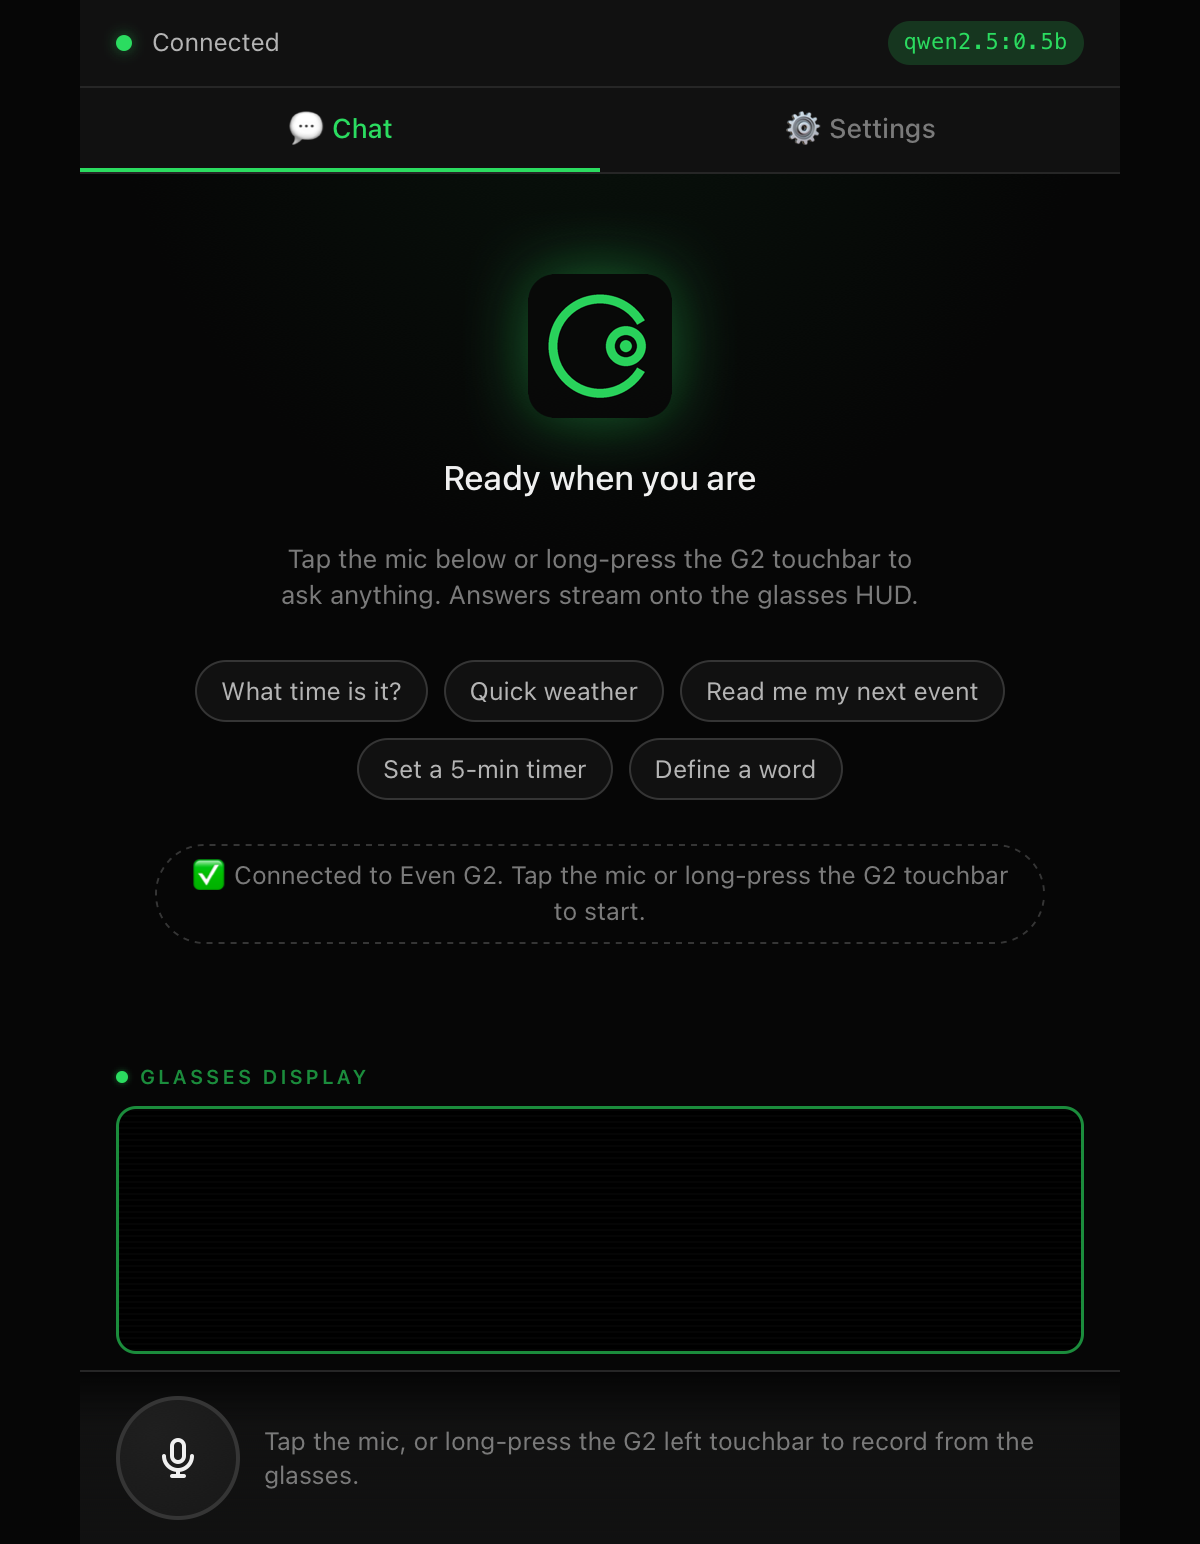
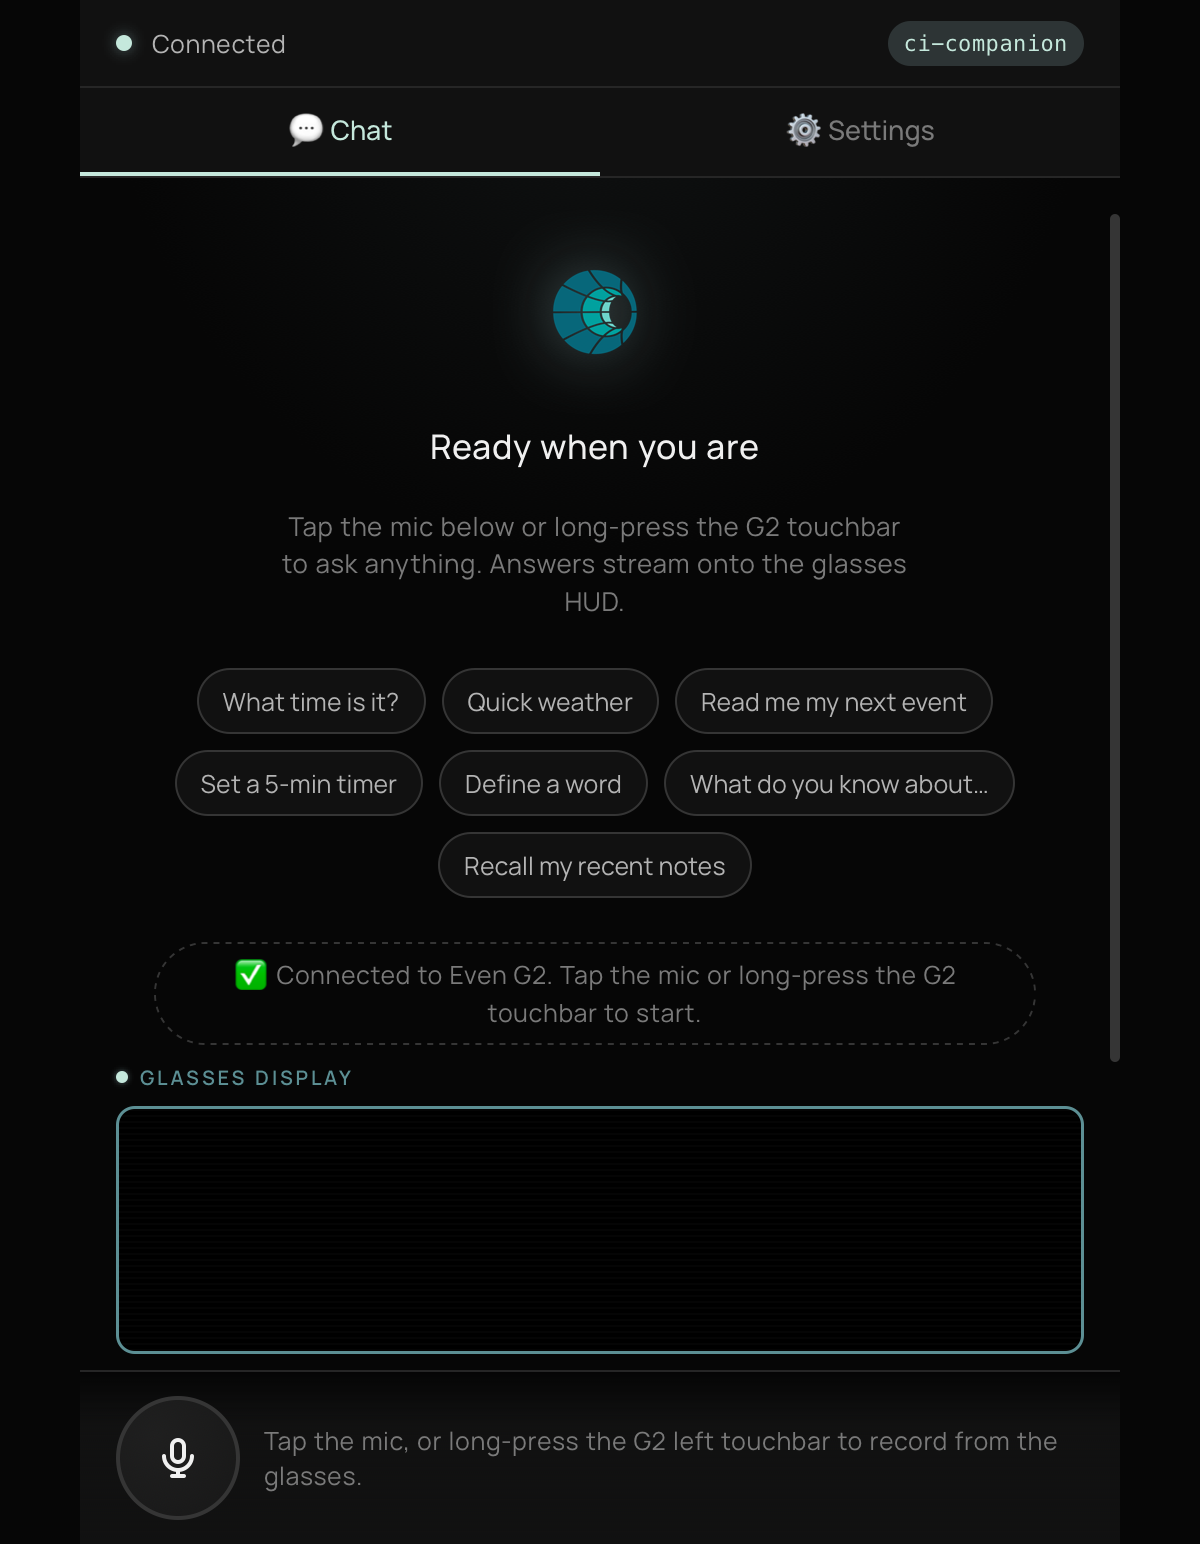
release: 0.5.1 — Responses-API fallback fix, refreshed store screenshots (#41)
* app.json 0.5.0 -> 0.5.1 (the #39 fix needs to ship as a new portal version).
* Recaptured all store-listing screenshots on the current sage brand from a
  built app via the simulator automation API, replacing the set that predated
  the canon migration. 05/06 stream a fixed answer from a deterministic
  OpenAI-compatible mock so they are reproducible. Renamed
  05-hud-stream-ollama -> 05-hud-stream (no longer an Ollama capture) and
  dropped 07-beta1-settings, which showed a private Tailscale address in what
  becomes a public listing.
* PUBLISHING.md: remove the stale-brand alert, document the recapture recipe,
  update versions/test count, correct the claim that the simulator webview
  cannot reach localhost (it can, verified on simulator 0.7.3).
* docs/store-listing.md + CHANGELOG + ROADMAP updated to match.

diff --git a/PUBLISHING.md b/PUBLISHING.md
@@ -18,16 +18,16 @@ npm run pack:ehpk       # builds + produces ci-companion.ehpk
 
 ## Pre-flight checklist
 
-- [ ] `npm test` passes (currently 172 tests)
+- [ ] `npm test` passes (currently 179 tests)
 - [ ] `npm run typecheck` clean
 - [ ] `npm run build` produces `dist/` with `index.html`, JS, CSS
-- [ ] `app.json` version bumped (semver) — currently `0.5.0`
+- [ ] `app.json` version bumped (semver) — currently `0.5.1`
 - [ ] Backend URL field in Settings defaults to a sensible value (today: `http://localhost:8080`)
 - [ ] `permissions.network.whitelist` is `["*"]` so users can point at their own hub / Ollama / OpenAI URLs **and reach CI-Portal for OIDC sign-in**
 - [ ] "Sign in with Companion Intelligence" (CI-Portal OIDC) reaches the configured issuer; signed-out API-key mode still works
 - [ ] CI-Hub quick-connect fills a valid Ollama/Hermes/OpenClaw backend from a Hub base URL
 - [ ] Manually smoke-tested in the Even Hub simulator against at least one live backend (recommend Ollama)
-- [ ] Store-listing screenshots recaptured on the current brand (see the stale-brand warning under "Screenshots already captured" below) — not yet done
+- [x] Store-listing screenshots recaptured on the current brand (0.5.1 set — see "Screenshots" below)
 
 ---
 
@@ -40,7 +40,7 @@ The portal validates `app.json` against a fixed schema. The current file is:
   "package_id": "com.companionintelligence.ciglasses",
   "edition": "202601",
   "name": "CI Companion",
-  "version": "0.5.0",
+  "version": "0.5.1",
   "min_app_version": "2.2.10",
   "min_sdk_version": "0.0.16",
   "entrypoint": "index.html",
@@ -174,28 +174,18 @@ Use this as the starting point — the portal accepts plain text + images.
 - `icon-512.png`, `icon-192.png`, `icon-128.png`, `icon-64.png` — derived sizes
 - `icon-512.png` is also bundled inside the `.ehpk` at `dist/icon.png`
 
-**Screenshots already captured** (in `ci-glasses-app/assets/screenshots/`):
-
-> ⚠ **Stale brand alert.** These seven screenshots predate the CI-Common
-> canon 1.0 migration (`d4b7d2a`, `9244b1a`) — they show the app's original
-> bright-green accent, not the current sage `--primary` (`#c5e8dc`) used
-> everywhere else today (compare against `docs/ui/glasses-chat-dark.png` /
-> `glasses-settings-dark.png`, which *are* current). Submitting the store
-> listing with this set would show a UI that doesn't match what installs.
-> Recapture all seven from a current build before the next portal upload —
-> see `docs/dev-setup.md` for the simulator workflow. Nothing in this
-> session could do it (no simulator/device access here), so it's flagged
-> here rather than silently left stale.
+**Screenshots** (in `ci-glasses-app/assets/screenshots/`) — recaptured 2026-09-28 from the 0.5.1 build (`vite build`, served with `vite preview`) on the current sage brand, replacing the earlier set that predated the canon migration. `05`/`06` stream a fixed, accurate answer from a small deterministic OpenAI-compatible mock (word by word, exactly like a real backend) so they are reproducible; everything else is the app as-is. The old `07-beta1-settings.png` is gone on purpose — it showed a private Tailscale address.
 
 | File | What it shows | Source |
 |---|---|---|
-| `01-empty-quick-actions.png` | Empty Chat tab — icon mark, "Ready when you are" hero, 5 quick-action chips, system pill, GLASSES DISPLAY pane, polished SVG mic button | simulator webview |
+| `01-empty-quick-actions.png` | Empty Chat tab — CI mark, "Ready when you are" hero, quick-action chips, "Connected to Even G2" pill, GLASSES DISPLAY pane, mic dock | simulator webview |
 | `02-hud-ready.png` | G2 HUD showing "CI Companion ready" startup status | simulator glasses |
-| `03-settings.png` | Settings tab with the **Backend Kind card grid** (Local LLM active), card hints visible | simulator webview |
-| `04-hud-prompt.png` | Permission-prompt card on the HUD — tool name, summary, "tap: Approve  2x: Deny" footer | simulator glasses |
-| `05-hud-stream-ollama.png` | Real `qwen2.5:0.5b` answer paginated on the HUD with "[1/2]" indicator, streamed through beta-1 over Tailscale | simulator glasses |
-| `06-chat-with-response.png` | Full polished webview mid-stream: connected pill, model badge, user bubble (gradient green), assistant bubble (dark surface), live GLASSES DISPLAY preview with scan-line overlay | simulator webview |
-| `07-beta1-settings.png` | Settings showing Backend URL `http://100.124.211.75:8787` (beta-1 via Tailscale) — proves the deploy chain | simulator webview |
+| `03-settings.png` | Settings tab — Account ("Sign in with Companion Intelligence") and CI-Hub quick-connect (Assistant / Ollama / Hermes / OpenClaw / Memory) | simulator webview |
+| `04-hud-prompt.png` | Permission-prompt card on the HUD — tool name, summary, tap/double-tap footer | simulator glasses |
+| `05-hud-stream.png` | A streamed answer paginated on the HUD | simulator glasses |
+| `06-chat-with-response.png` | Full webview after a streamed answer: user bubble, assistant bubble, live GLASSES DISPLAY preview | simulator webview |
+
+To recapture, run the simulator against a built app (`npm run build && npm run preview -- --port 5173`) with `--automation-port 9898` and fetch `/api/screenshot/{glasses,webview}` (one fresh simulator launch per shot; the webview snapshot only works while the window is frontmost). Sizes are 1200×1544 (webview) and 576×288 (glasses).
 
 **Optional extras** (capture only if you want extra polish):
 - agent-hub terminal output (for the developer story)
@@ -228,7 +218,7 @@ curl -o glasses.png http://localhost:9898/api/screenshot/glasses
 curl -o webview.png http://localhost:9898/api/screenshot/webview
 ```
 
-**Note on networking**: the Tauri webview inside the simulator can reach a LAN IP (`192.168.x.y:8787`) but not `localhost` of the host. Use your machine's LAN IP when pointing at the hub from the simulator. The agent-hub now sends permissive CORS headers so the webview's preflight passes.
+**Note on networking**: with simulator 0.7.3 the Tauri webview reaches the host's `localhost` fine (verified streaming through `http://localhost:8787`), so `baseUrl=http://localhost:8787` works. If a future simulator build blocks loopback, use your machine's LAN IP (`192.168.x.y:8787`) instead — the hub binds loopback only by default, so that also needs `HUB_BIND=0.0.0.0` + `HUB_TOKEN`. The agent-hub sends permissive CORS headers so the webview's preflight passes.
 
 **Support URL:** <https://github.com/companionintelligence/CI-Even-Realities>
 

diff --git a/docs/store-listing.md b/docs/store-listing.md
@@ -12,7 +12,7 @@ release. See [`../PUBLISHING.md`](../PUBLISHING.md) for the upload workflow.
 |---|---|
 | **App name** | CI Companion |
 | **Package id** | `com.companionintelligence.ciglasses` |
-| **Version** | `0.4.0` |
+| **Version** | `0.5.1` |
 | **Categories** | Productivity · Developer Tools |
 | **Supported languages** | English (`en`) |
 | **Support URL** | <https://github.com/companionintelligence/CI-Even-Realities> |
@@ -60,22 +60,25 @@ release. See [`../PUBLISHING.md`](../PUBLISHING.md) for the upload workflow.
 
 ## Screenshots (`ci-glasses-app/assets/screenshots/`)
 
+Recaptured for 0.5.1 on the current sage brand (see [`../PUBLISHING.md`](../PUBLISHING.md#how-the-screenshots-were-captured) for how).
+
 | File | What it shows |
 |---|---|
 | `01-empty-quick-actions.png` | Empty Chat tab — hero, quick-action chips, mic button |
 | `02-hud-ready.png` | G2 HUD "CI Companion ready" |
-| `03-settings.png` | Settings — Backend Kind card grid |
+| `03-settings.png` | Settings — Account sign-in and CI-Hub quick-connect |
 | `04-hud-prompt.png` | Permission-prompt card on the HUD |
-| `05-hud-stream-ollama.png` | Live streamed answer paginated on the HUD |
-| `06-chat-with-response.png` | Full webview mid-stream with glasses preview |
-| `07-beta1-settings.png` | Settings pointed at a Tailscale hub |
+| `05-hud-stream.png` | Streamed answer paginated on the HUD |
+| `06-chat-with-response.png` | Full webview after a streamed answer, with glasses preview |
 
-> **To refresh for 0.4.0:** capture the new **Account** section (signed-out
-> "Sign in with Companion Intelligence" + signed-in identity) and the **CI-Hub**
-> quick-connect. See the demo bootstraps (`?screen=settings`) in
-> [`../PUBLISHING.md`](../PUBLISHING.md).
+## Release notes — 0.5.1
 
-## Release notes — 0.4.0
+- Fixed: pointing the app at a self-hosted or OpenAI-compatible server that has no Responses API (an `agent-hub`, or many local servers) no longer fails with "Responses API error 404" — the app now falls back to Chat Completions automatically.
+- Native G2 touchbar long-press now starts and stops recording directly (Even Hub SDK 0.0.16).
+- More resilient streaming, HUD writes, and CI-Server memory calls: a slow or unreachable backend can no longer stall a turn indefinitely.
+- Refreshed store screenshots to match the current design.
+
+## Release notes — 0.4.0 (previous)
 
 - Added "Sign in with Companion Intelligence" (CI-Portal OIDC, Authorization-Code + PKCE).
 - Added CI-Hub quick-connect presets (Ollama / Hermes / OpenClaw).

diff --git a/ROADMAP.md b/ROADMAP.md
@@ -73,7 +73,7 @@ Next steps for testing and development of `ci-even-realities`.
 
 ### Distribution
 
-- [ ] **Even Hub store listing** — create a proper app listing with screenshots and description for the Even Hub portal. The description/copy is drafted (`PUBLISHING.md`); the `ci-glasses-app/assets/screenshots/` set needs recapturing first — it predates the sage brand migration (see the stale-brand warning in `PUBLISHING.md`).
+- [ ] **Even Hub store listing** — create a proper app listing with screenshots and description for the Even Hub portal. The description/copy is drafted (`docs/store-listing.md`) and the screenshot set was recaptured on the current sage brand for 0.5.1. Still open: `evenhub login` and the manual upload at the portal (see `PUBLISHING.md`).
 - [ ] **Version tagging** — establish a semantic versioning convention and automate version bumps via CI.
 - [x] **Changelog** — [`CHANGELOG.md`](CHANGELOG.md) now tracks notable changes between releases, starting at `0.5.0`.
 - [x] **Public setup/connect page** — [`er-connect/`](er-connect/) is live at [er.ci.computer](https://er.ci.computer) (install, backend connect steps, manual config, supported backend kinds, and CI-Portal sign-in with auto-connect). Deployed as a Cloudflare Worker with static assets (not classic Pages — see `er-connect/README.md`'s Deploy section for why), config committed in `er-connect/wrangler.jsonc`. Still open: `CLOUDFLARE_API_TOKEN`/`CLOUDFLARE_ACCOUNT_ID` repo secrets aren't set, so [`deploy-er-connect.yml`](.github/workflows/deploy-er-connect.yml) can't redeploy from CI yet — redeploys need `wrangler deploy` run locally by someone with account access until then.

diff --git a/CHANGELOG.md b/CHANGELOG.md
@@ -49,6 +49,27 @@ via its own `package.json` / Docker tag.
   with the two paths that actually apply now (local `wrangler deploy`, or
   the GitHub Actions workflow).
 
+## [0.5.1] — Responses-API fallback fix, refreshed store screenshots
+
+### Fixed
+
+- **"Responses API error 404" against `agent-hub` and other OpenAI-compatible
+  servers.** In `auto` API mode the app probed `OPTIONS /v1/responses` and
+  treated any 2xx as "supported", but servers with global CORS handling answer
+  a preflight 2xx for *every* path, so it picked an endpoint that doesn't exist
+  and every message failed. `ApiAdapter` now retries the turn on Chat
+  Completions when the real request returns 404/405/501 (and remembers it); real
+  errors and an explicit `responses` mode still surface. `agent-hub` also
+  answers preflight 204 only for routes it serves. Found running the app in the
+  Even Hub simulator against the hub.
+- Docs said the default OIDC client is `ci-hub`; it is `ci-even`.
+
+### Changed
+
+- Store-listing screenshots recaptured on the current sage brand (the previous
+  set predated the canon migration). Dropped `07-beta1-settings.png`, which
+  showed a private Tailscale address.
+
 ## [0.5.0] — Even Hub SDK 0.0.16, native long-press, CI-Server hardening
 
 ### Changed
